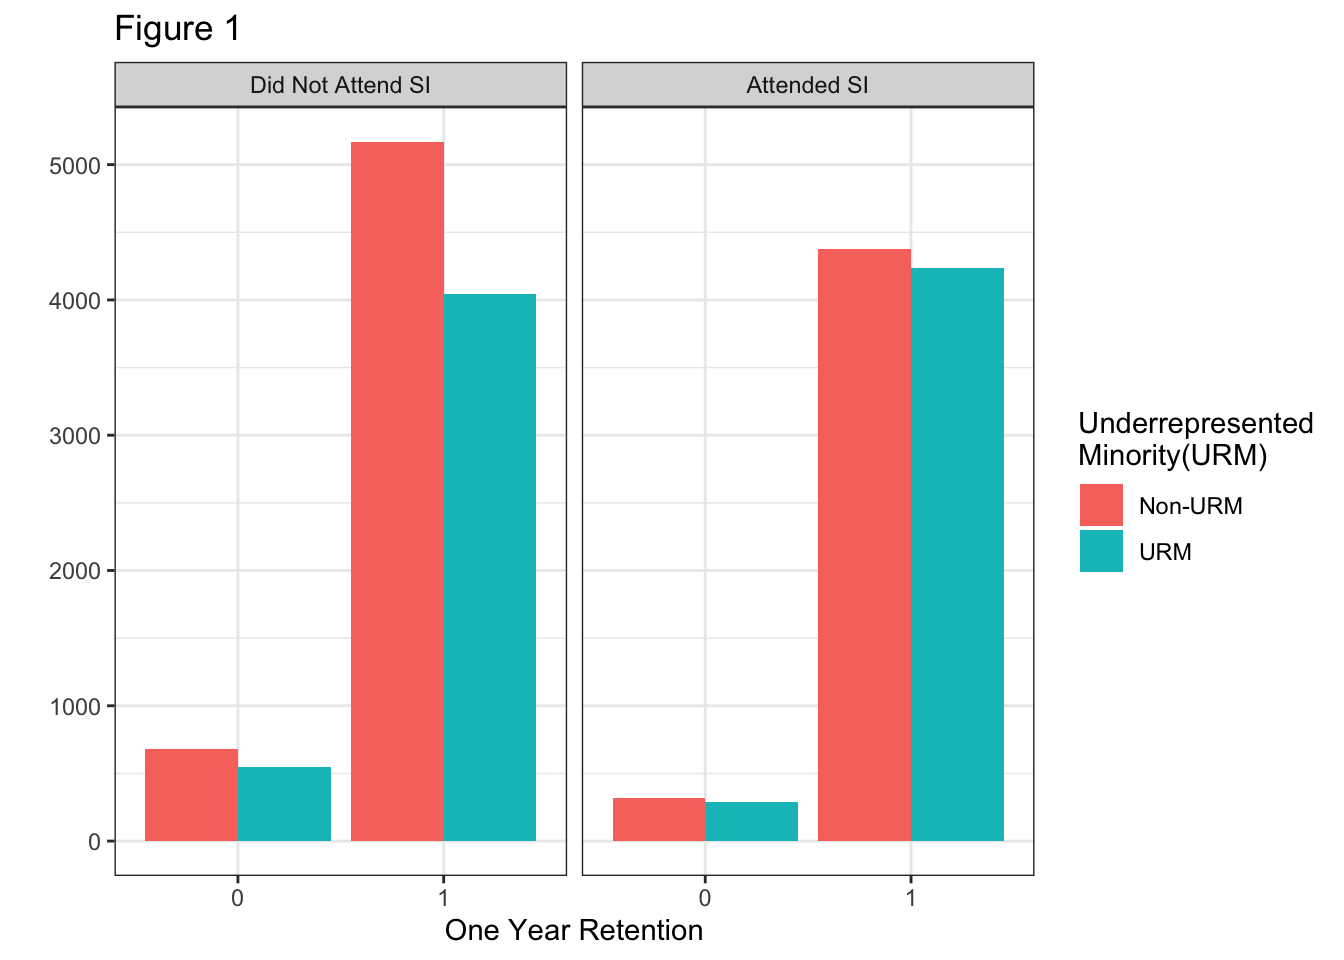
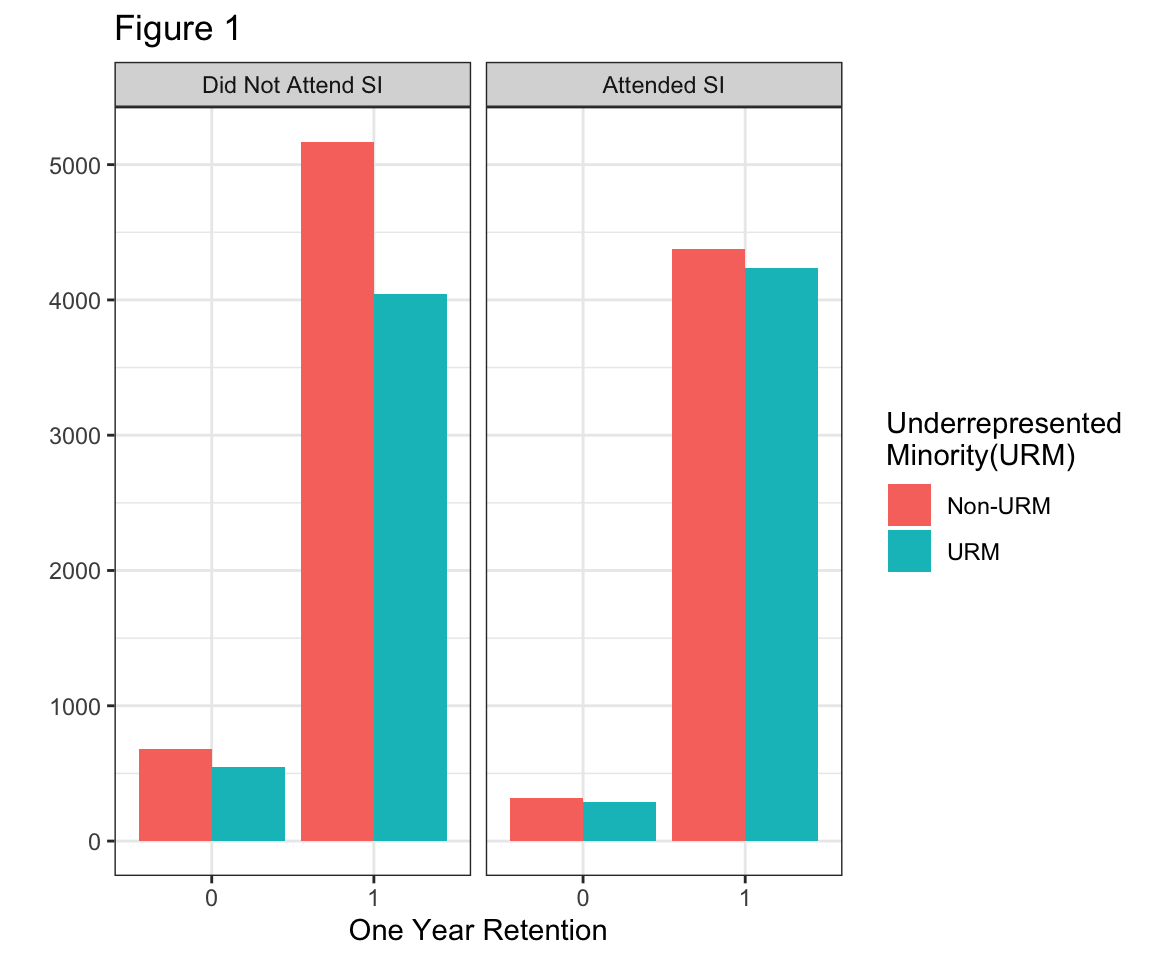
added abstract, aligned student plots

diff --git a/poster html copy/poster-html.html b/poster html copy/poster-html.html
@@ -296,10 +296,13 @@ font-size: 20pt;
 <div class='poster_body'>
 <div id="introduction" class="section level1">
 <h1>Introduction</h1>
+<div id="abstract" class="section level3">
+<h3>Abstract</h3>
+<p>It is the top mission of our university to retain and graduate students who are well prepared for careers or graduate school. CSU, Chico observed a 5.1% percentage point decrease in first year retention rate from 2015 (85.8%) to 2020 (80.7%). This decrease was slightly larger for first-generation college students at 5.4% percentage points over the same period (83.4% in ’15 to 78% in ’20) compared to their counterparts who have college educated parents (88.6% in ’15 and 83.9% in ’20, a 4.7% percentage point decrease). This difference is called an equity gap. Supplemental Instruction (SI) is a program offered at numerous CSU campuses to support students in selected courses by providing peer-assisted discussion sessions. These courses are selected based on their difficulty and the rate which students do not pass. This study assesses the impact of SI on reducing the equity gaps in the overall pass rate for a course, on the individual student grade for a course, and individual student 1 year retention. Equity gaps are being measured on students of underrepresented minority status and first-generation students. Multivariable statistical models such as linear and logistic regression are used to account for variability in the equity gap from sources other than SI. Additionally, Coarsened Exact Matching is used to estimate causal impact of SI on first year retention by matching students who did/did not attend SI on their likelihood of attending SI.</p>
 <div id="what-is-supplemental-instruction" class="section level4">
 <h4>What is Supplemental Instruction?</h4>
 <ul>
-<li>Supplemental Instruction (SI) is designed to increase student success in historically difficult courses by utilizing peer lead study session. The SI leader has performed well in the course. Using this experience, the SI leader encourages and assists students own success. Students success is a top mission throughtout universities. Hence, it is of the utmost important to find and/or develop strategies to promote student success in the classroom. Students come from diverse backgrounds, and may need additionaly support to flourish at the university level. SI aims bridge this gap, so every student has an equal opportunity at success.</li>
+<li>Supplemental Instruction (SI) is designed to increase student success in historically difficult courses by utilizing peer lead study session. The SI leader has performed well in the course. Using this experience, the SI leader encourages and assists students own success. Students success is a top mission throughout universities. Hence, it is of the utmost important to find and/or develop strategies to promote student success in the classroom. Students come from diverse backgrounds, and may need additional support to flourish at the university level. SI aims bridge this gap, so every student has an equal opportunity at success.</li>
 </ul>
 </div>
 <div id="related-work-and-background-rica-could-put-her-summaries-here" class="section level4">
@@ -315,6 +318,7 @@ The data included course information, student demographics, and student course g
 <ul>
 <li>By measuring equity gaps, we seek to address disparities faced by historically underserved groups. When addressing inequities, CSU’s consider three student groups underrepresented minorities (URM), first generation, and low income. Due to data limitations, here we consider the former two groups.</li>
 </ul>
+</div>
 </div>
 </div>
 <div id="methods" class="section level1">
@@ -402,23 +406,15 @@ We limited our sample to first time freshman. Hence, they should still be enroll
 Additionally, is primarily found in GE classes, so transfer students are likely not enrolling in
 these course at CSU Chico. Figure 1 presents one year retention for those who did and did not attend SI by one of the measures of equity, URM.</li>
 </ul>
-<p><img src="poster-html_files/figure-html/unnamed-chunk-1-1.png" width="672" /><img src="poster-html_files/figure-html/unnamed-chunk-1-2.png" width="672" /></p>
+<p><img src="poster-html_files/figure-html/unnamed-chunk-1-1.png" width="576" /><img src="poster-html_files/figure-html/unnamed-chunk-1-2.png" width="576" /></p>
 <div id="course-level" class="section level4">
 <h4>Course Level</h4>
-<ul>
-<li></li>
-<li></li>
-<li></li>
-<li></li>
-<li></li>
-<li></li>
-</ul>
 </div>
 </div>
 </div>
 <div id="student-level-models" class="section level1">
 <h1>Student Level Models</h1>
-<p><img src="poster-html_files/figure-html/unnamed-chunk-2-1.png" width="672" /><img src="poster-html_files/figure-html/unnamed-chunk-2-2.png" width="672" />
+<p><img src="poster-html_files/figure-html/unnamed-chunk-4-1.png" width="672" /><img src="poster-html_files/figure-html/unnamed-chunk-4-2.png" width="672" />
 * Figure 3, presents the results from a model considering the first student level question, “Does SI have an impact on the one retention”. The results from this model imply, that SI does not a have a significant impact on student one year retention. If the student is first generation is also insignificant. Additionally, this model also implies that a student that is classified as URM is positively related to one year retention. Figure 4, presents the results from a model considering the second student level question “Does the impact of SI differ between the equity groups”. Again, SI attendance was found to be insignificant and URM is positively related. Additionally, if the student is an URM and attended SI, was also found to be insignificant. If the student is first generation is also found to be insignificant. However, if the student is first generation and attends SI the probability of year retention increases, and this relationship is significant. For both models, other covariates that may capture variation in one year retention were included in the model that are not presented here.
 *
 <em>
@@ -476,7 +472,6 @@ these course at CSU Chico. Figure 1 presents one year retention for those who di
 <div id="course-level-models" class="section level1">
 <h1>Course Level Models</h1>
 <ul>
-<li></li>
 <li></li>
 <li></li>
 <li></li>
